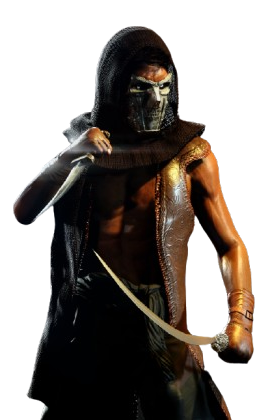
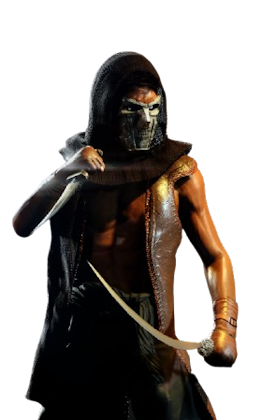
carousel

diff --git a/src/app/components/images/CharacterCarousel.tsx b/src/app/components/images/CharacterCarousel.tsx
@@ -1,11 +1,91 @@
+"use client";
+import Image from "next/image";
+import { CarouselLarge } from "./CharacterCarousel/CarouselLarge";
+import { useState } from "react";
+import { CenteredText } from "../text/CenteredText";
+
 export function CharacterCarousel() {
+  const [selectedCharacterIndex, setSelectedCharacterIndex] = useState(0);
+
+  const characters: {
+    src: string;
+    alt: string;
+    descriptionTitle: string;
+    description: string;
+  }[] = [
+    {
+      src: "/characters/character-klaus.png",
+      alt: "Klaus",
+      descriptionTitle: "He stand",
+      description: "He stand motherfucker. You move him. Show me",
+    },
+    {
+      src: "/characters/character-sarraq.png",
+      alt: "Sarraq",
+      descriptionTitle: "He stab",
+      description: "He stab motherfucker. Stab, stab. You die",
+    },
+    {
+      src: "/characters/character-septos.png",
+      alt: "Sarraq",
+      descriptionTitle: "He stink",
+      description: "He stink motherfucker. Fuck me. Stinky boy",
+    },
+  ];
+  const next = () => {
+    setSelectedCharacterIndex(selectedCharacterIndex + 1);
+  };
+  const prev = () => {
+    setSelectedCharacterIndex(selectedCharacterIndex - 1);
+  };
   return (
-    <ul className="h-200px absolute top-1/2 left-1/2 transform translate-x-1/2 translate-y-1/2">
-      <li className="list-none w-200px h-200px opacity-50 absolute left-1/2 -mx-100px transition-opacity"></li>
-      <li className="list-none w-200px h-200px opacity-50 absolute left-1/2 -mx-100px transition-opacity"></li>
-      <li className="list-none w-200px h-200px opacity-50 absolute left-1/2 -mx-100px transition-opacity"></li>
-      <li className="list-none w-200px h-200px opacity-50 absolute left-1/2 -mx-100px transition-opacity"></li>
-      <li className="list-none w-200px h-200px opacity-50 absolute left-1/2 -mx-100px transition-opacity"></li>
-    </ul>
+    <div className="carousel relative snap-mandatory snap-center">
+      <Image
+        className="relative"
+        width={"1024"}
+        height={"280"}
+        src={"/black.png"}
+        alt={""}
+      />
+      <div className="carousel-images">
+        {characters.map((c, i) => (
+          <div key={i}>
+            <CarouselLarge
+              src={c.src}
+              alt={c.alt}
+              selected={i === selectedCharacterIndex}
+              index={i}
+            />
+          </div>
+        ))}
+      </div>
+      <div className="carousel-descriptions absolute left-1/2 top-1/4 ">
+        {characters.map((c, i) => (
+          <div
+            className={`absolute w-[240px] ${
+              i !== selectedCharacterIndex
+                ? "carousel-text-hidden animate-fade-out-1"
+                : "animate-fade-in-4"
+            }`}
+            key={i}
+          >
+            <p className="description-title text-4xl">{c.descriptionTitle}</p>
+            <p className="description-title text-xl">{c.description}</p>
+          </div>
+        ))}
+      </div>
+      <button
+        className={`carousel-prev absolute top-1/2 left-0 transform -translate-y-1/2`}
+        onClick={prev}
+      >
+        &lt;
+      </button>
+      <button
+        className="carousel-next absolute top-1/2 right-0 transform -translate-y-1/2"
+        onClick={next}
+      >
+        &gt;
+      </button>
+    </div>
   );
 }

diff --git a/tailwind.config.ts b/tailwind.config.ts
@@ -13,6 +13,29 @@ const config: Config = {
         "gradient-conic":
           "conic-gradient(from 180deg at 50% 50%, var(--tw-gradient-stops))",
       },
+      keyframes: {
+        fadeout: {
+          "0%": {
+            opacity: "100",
+          },
+          "100%": {
+            opacity: "0",
+          },
+        },
+        fadein: {
+          "0%": {
+            opacity: "0",
+          },
+          "100%": {
+            opacity: "100",
+          },
+        },
+      },
+      animation: {
+        "fade-out-1": "fadeout 1s",           
+        "fade-in-2": "fadein 2s",        
+        "fade-in-4": "fadein 5s",
+      },
     },
   },
   plugins: [],

diff --git a/src/app/components/images/CharacterCarousel/CarouselLarge.tsx b/src/app/components/images/CharacterCarousel/CarouselLarge.tsx
@@ -1,0 +1,32 @@
+import Image from "next/image";
+
+export function CarouselLarge({
+  src,
+  alt,
+  index,
+  width = 3000,
+  height = 3000,
+  selected = false,
+}: {
+  src: string;
+  alt: string;
+  index: number;
+  width?: number;
+  height?: number;
+  selected?: boolean;
+}) {
+  return (
+    <Image
+      className={`carousel-image-large absolute top-0 h-full w-auto ${
+        !selected
+          ? "carousel-image-hidden animate-fade-out-1"
+          : "animate-fade-in-2"
+      }`}
+      src={src}
+      alt={alt}
+      width={width}
+      height={height}
+      key={index}
+    />
+  );
+}

diff --git a/src/app/components/navigation/Navbar/MobileDrawer.tsx b/src/app/components/navigation/Navbar/MobileDrawer.tsx
@@ -22,8 +22,11 @@ export function MobileDrawer({
         <FontAwesomeIcon className="text-5xl" icon={faXmark} />
       </button>
       <ul className="flex flex-col justify-center items-center space-y-4">
-        {links.map((l) => (
-          <li className="text-3xl hover:text-blue-900 hover:font-semibold">
+        {links.map((l, i) => (
+          <li
+            className="text-3xl hover:text-blue-900 hover:font-semibold"
+            key={i}
+          >
             <Link href={l.path}>{l.text}</Link>
           </li>
         ))}

diff --git a/src/app/components/navigation/Navbar/DesktopNavLinks.tsx b/src/app/components/navigation/Navbar/DesktopNavLinks.tsx
@@ -4,8 +4,8 @@ import { LinkDescription } from "../../../schemas/common";
 export function DesktopNavLinks({ links }: { links: LinkDescription[] }) {
   return (
     <ul className="justify-center flex flex-row space-x-6">
-      {links.map((l) => (
-        <li className="text-xl hover:text-white hover:font-semibold">
+      {links.map((l, i) => (
+        <li className="text-xl hover:text-white hover:font-semibold" key={i}>
           <Link href={l.path}>{l.text}</Link>
         </li>
       ))}

diff --git a/src/app/components/images/CenteredImage.tsx b/src/app/components/images/CenteredImage.tsx
@@ -9,8 +9,8 @@ export function CenteredImage({
 }: {
   src: string;
   alt: string;
-  width: number;
-  height: number;
+  width?: number;
+  height?: number;
   priority: boolean;
 }) {
   return (

diff --git a/src/app/globals.css b/src/app/globals.css
@@ -27,3 +27,11 @@ body {
     text-wrap: balance;
   }
 }
+
+.carousel-image-hidden {
+  opacity: 0;
+}
+
+.carousel-text-hidden {
+  opacity: 0;
+}
